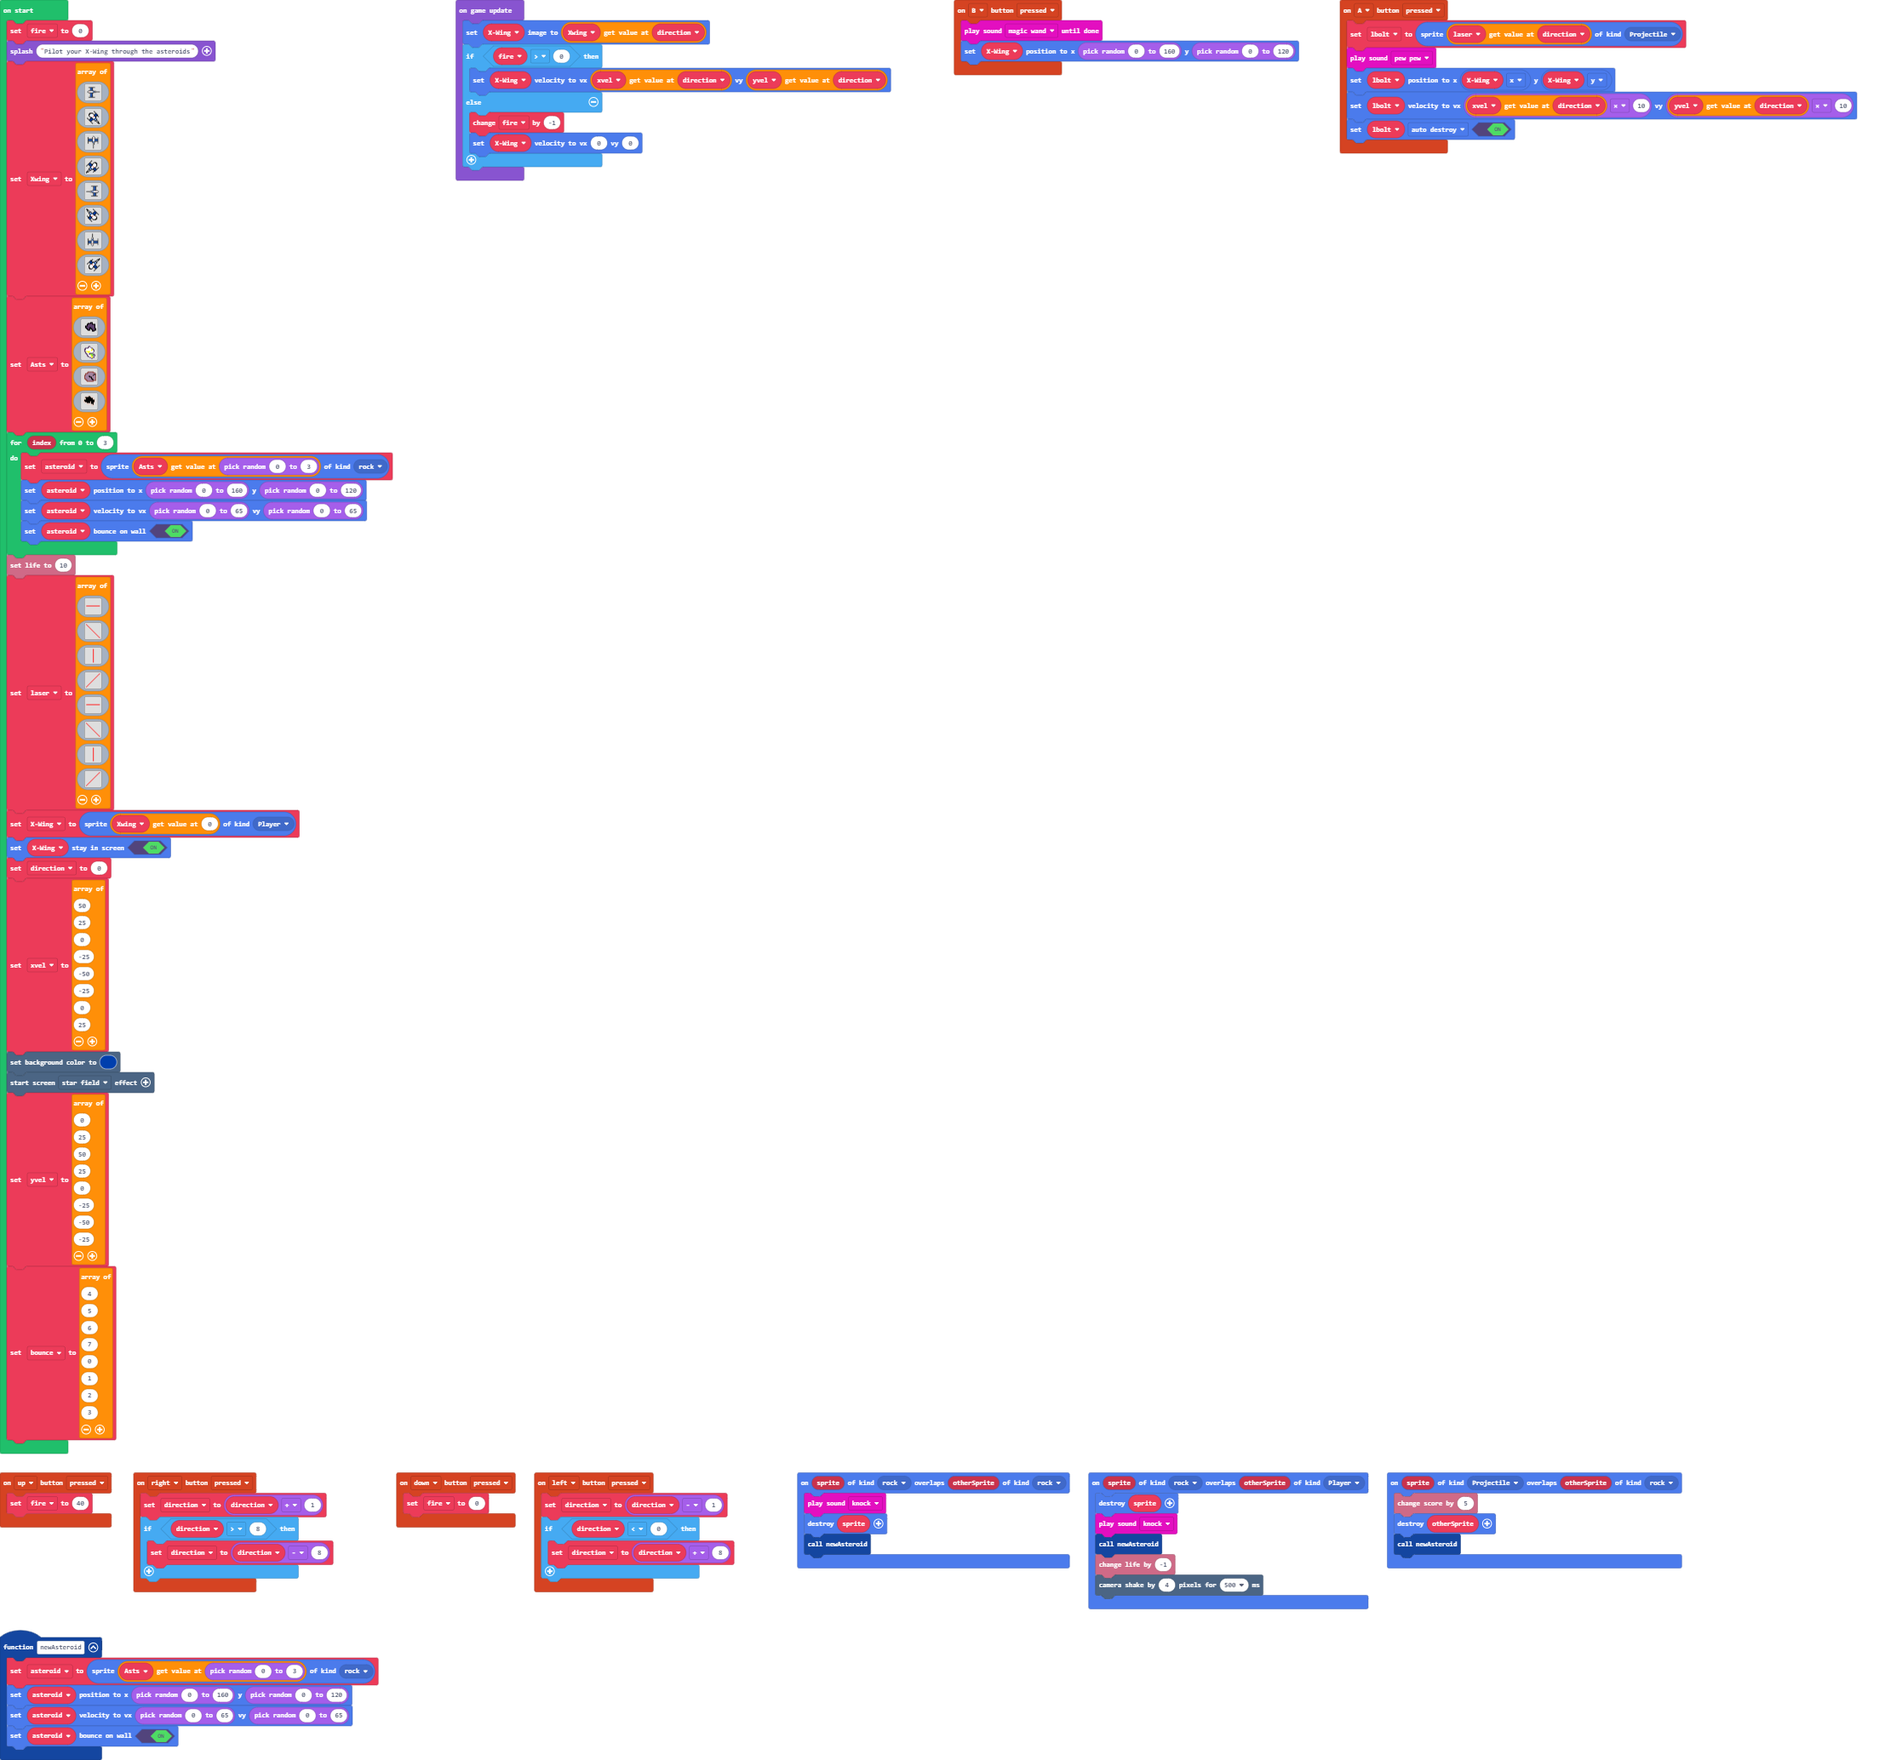
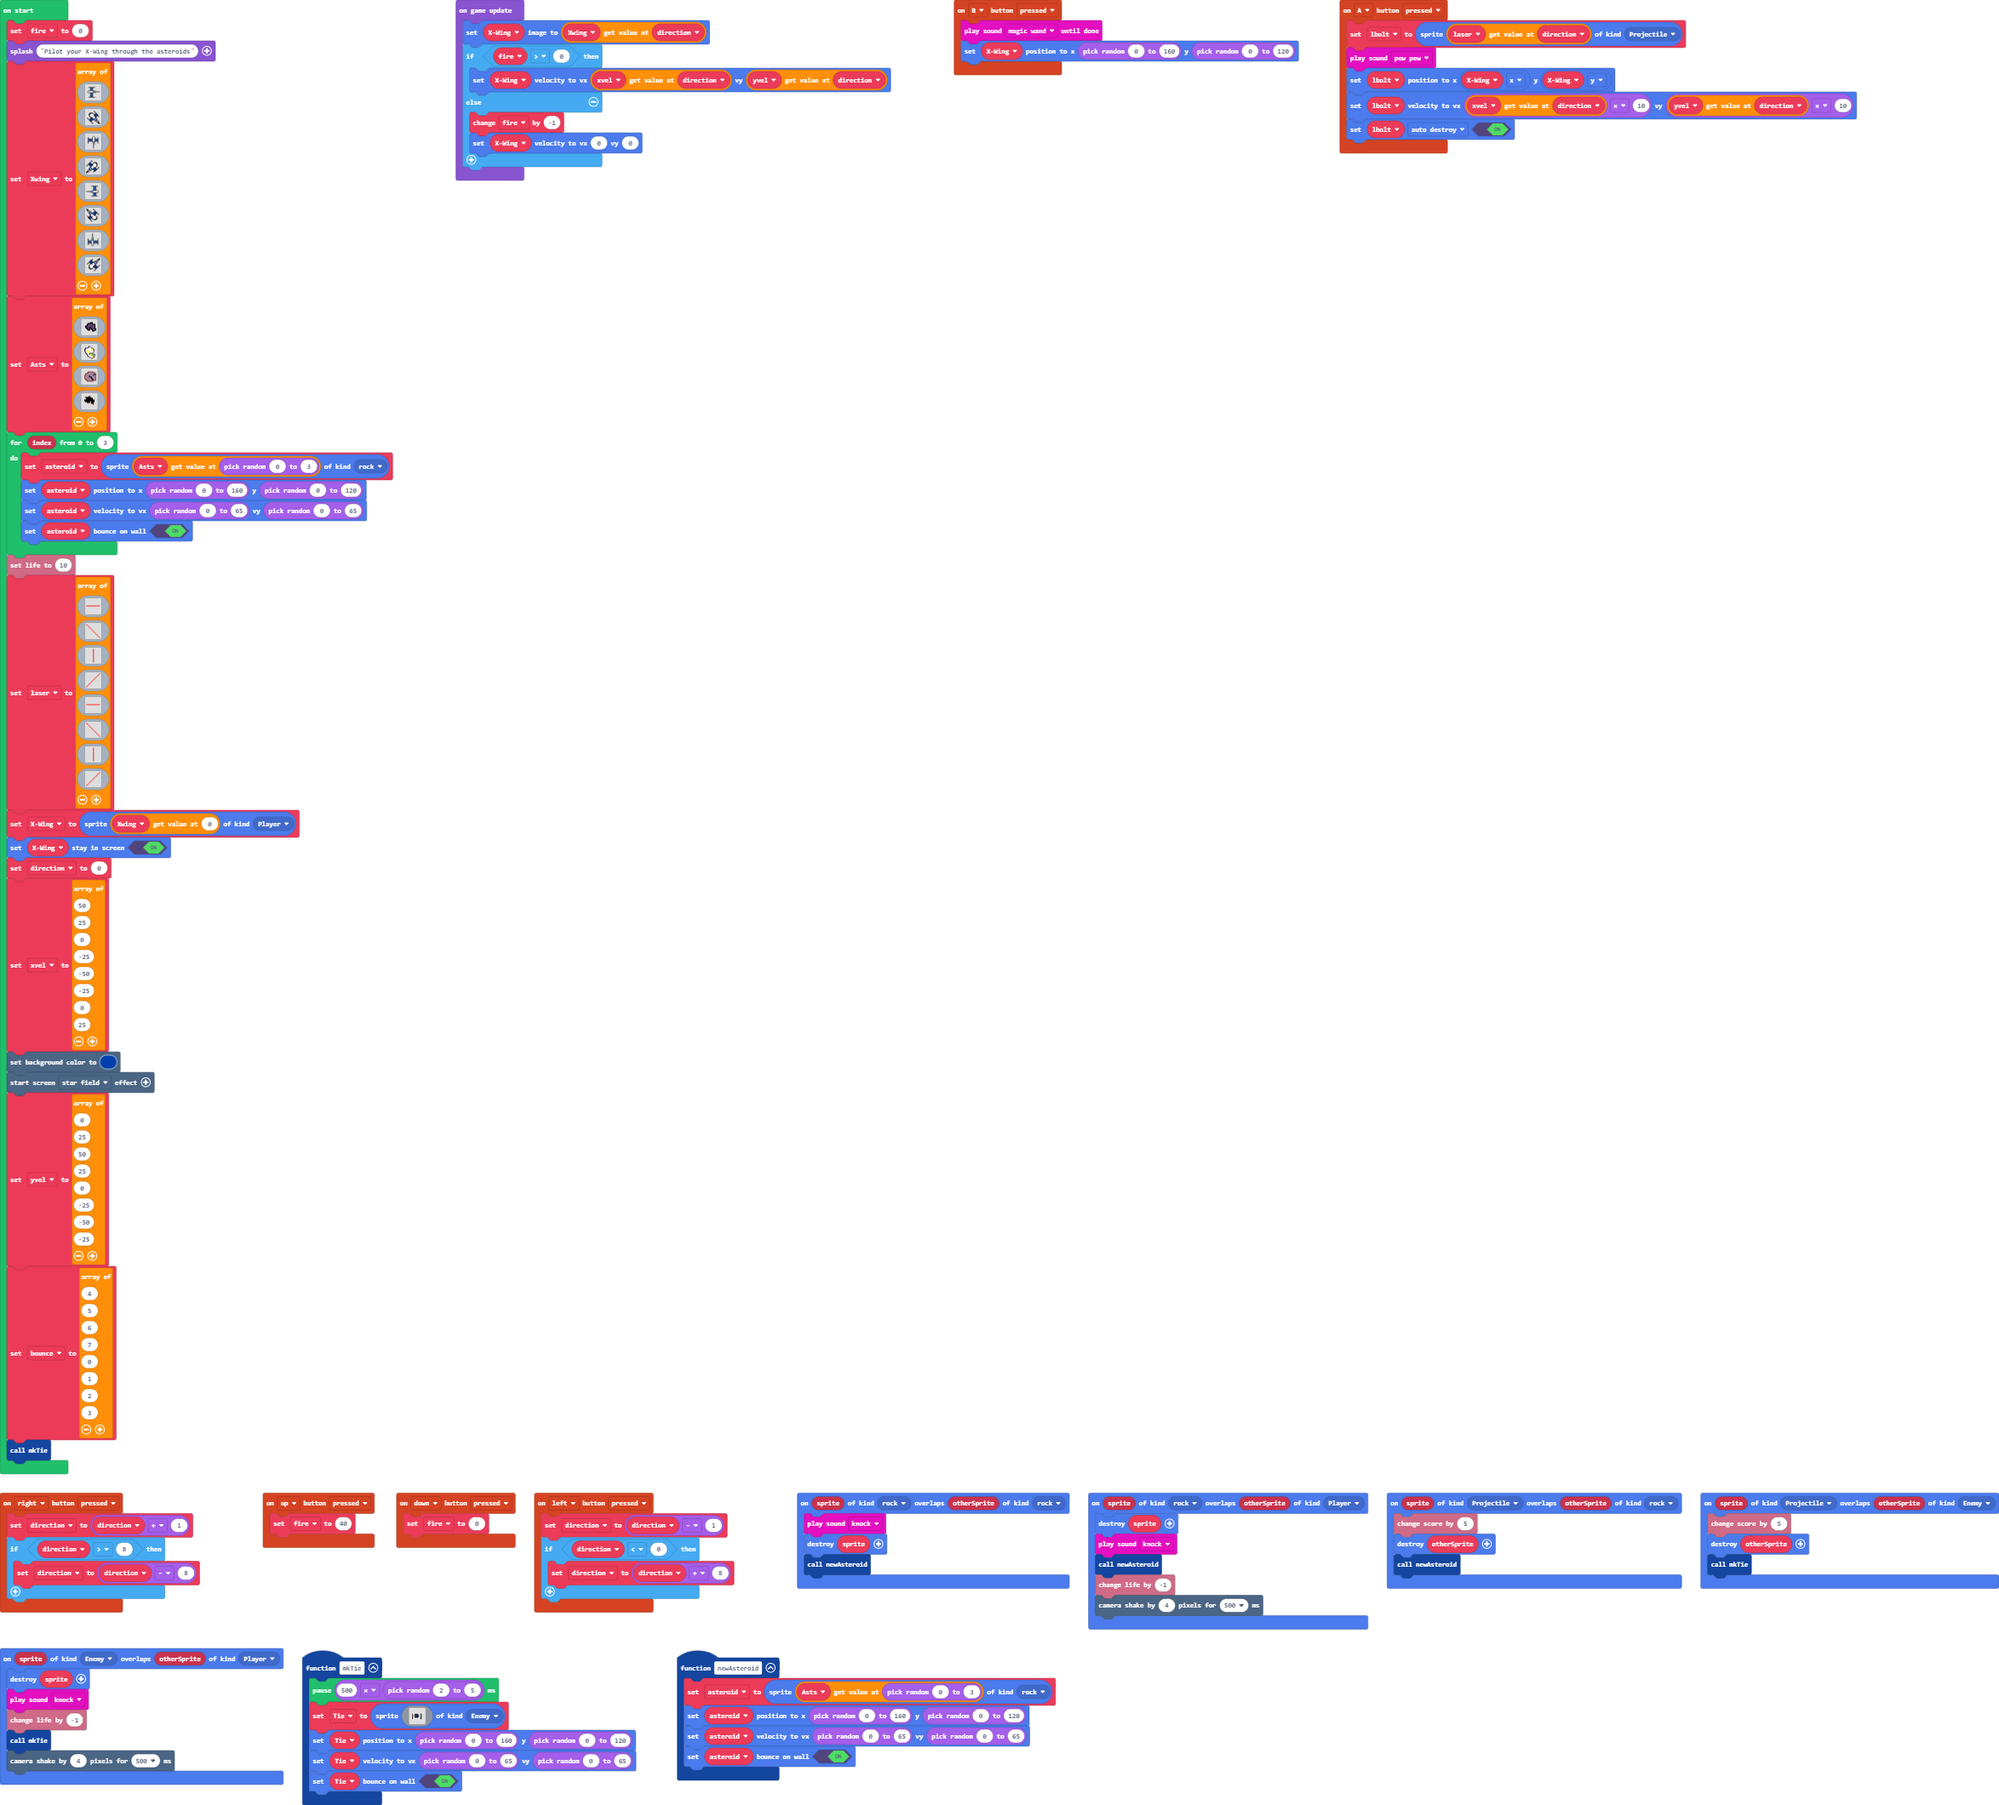
Update main.blocks, main.ts, images.g.jres, images.g.ts

Changed region(s): [[0.0, 0.0, 1.0, 1.0], [0.2157, 0.0, 0.986, 0.1238]]

diff --git a/main.ts b/main.ts
@@ -39,6 +39,13 @@ controller.right.onEvent(ControllerButtonEvent.Pressed, function () {
         direction = direction - 8
     }
 })
+sprites.onOverlap(SpriteKind.Enemy, SpriteKind.Player, function (sprite, otherSprite) {
+    sprite.destroy()
+    music.knock.play()
+    info.changeLifeBy(-1)
+    mkTie()
+    scene.cameraShake(4, 500)
+})
 controller.down.onEvent(ControllerButtonEvent.Pressed, function () {
     fire = 0
 })
@@ -47,12 +54,25 @@ sprites.onOverlap(SpriteKind.Projectile, SpriteKind.rock, function (sprite, othe
     otherSprite.destroy()
     newAsteroid()
 })
+function mkTie () {
+    pause(500 * randint(2, 5))
+    Tie = sprites.create(assets.image`TieF`, SpriteKind.Enemy)
+    Tie.setPosition(randint(0, 160), randint(0, 120))
+    Tie.setVelocity(randint(0, 65), randint(0, 65))
+    Tie.setBounceOnWall(true)
+}
+sprites.onOverlap(SpriteKind.Projectile, SpriteKind.Enemy, function (sprite, otherSprite) {
+    info.changeScoreBy(5)
+    otherSprite.destroy()
+    mkTie()
+})
 function newAsteroid () {
     asteroid = sprites.create(Asts[randint(0, 3)], SpriteKind.rock)
     asteroid.setPosition(randint(0, 160), randint(0, 120))
     asteroid.setVelocity(randint(0, 65), randint(0, 65))
     asteroid.setBounceOnWall(true)
 }
+let Tie: Sprite = null
 let lbolt: Sprite = null
 let yvel: number[] = []
 let xvel: number[] = []
@@ -200,6 +220,7 @@ let bounce = [
 2,
 3
 ]
+mkTie()
 game.onUpdate(function () {
     XWing.setImage(Xwing[direction])
     if (fire > 0) {

diff --git a/images.g.ts b/images.g.ts
@@ -267,6 +267,39 @@ f f . . . . . . f . . . . . . .
 . 2 . . . . . . . . . . . . . . 
 2 . . . . . . . . . . . . . . . 
 `;
+            case "image13":
+            case "TieF":return img`
+..............................
+..............................
+..............................
+..............................
+..............................
+..............................
+..............................
+....11........................
+....111................1......
+...11f1...1111111.....1f11....
+...1ff1..1fffffff1...1fff1....
+...1ff1.1fffffffff1..1fff1....
+...1ff1.1fffffffff1..1fff1....
+...1ff111fff888fff11111ff1....
+...1ff1f1fff888fff1ff1fff1....
+...1ff1f1fff888fff1111fff1....
+...1ff111fffffffff1..1fff1....
+...1ff1.1fffffffff1..1fff1....
+...1ff1..1fffffff1...1fff1....
+...1ff1...1111111....1fff1....
+...1ff1..............1fff1....
+..11ff1..............1fff1....
+....111...............11f1....
+......1.................11....
+.........................1....
+..............................
+..............................
+..............................
+..............................
+..............................
+`;
         }
         return null;
     })
